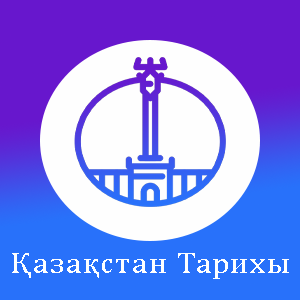
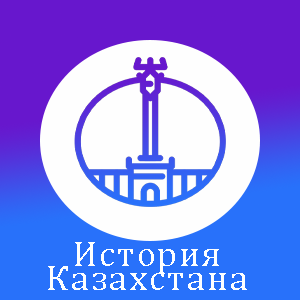
adding footer also change image of tarih to russian

Changed region(s): [[0.03, 0.81, 0.96, 0.99], [0.87, 0.84, 0.9, 0.87]]

diff --git a/Web/SnickersDevOps/src/main/resources/templates/parts/footer.html b/Web/SnickersDevOps/src/main/resources/templates/parts/footer.html
@@ -1,10 +1,27 @@
-<!DOCTYPE html>
-<html lang="en">
-<head>
-    <meta charset="UTF-8">
-    <title>Footer</title>
-</head>
-<body>
+<footer style = 'background-color: #C850C0; color: whitesmoke' class="text-center text-lg-start">
+    <!-- Grid container -->
+<!--    <div class="container p-4">-->
+<!--        &lt;!&ndash;Grid row&ndash;&gt;-->
+<!--        <div class="row">-->
+<!--            &lt;!&ndash;Grid column&ndash;&gt;-->
+<!--            <div class="col-lg-6 col-md-12 mb-4 mb-md-0">-->
+<!--                <h5 class="text-uppercase">Footer text</h5>-->
 
-</body>
-</html>
+<!--                <p>-->
+<!--                    Lorem ipsum dolor sit amet consectetur, adipisicing elit. Iste atque ea quis-->
+<!--                    molestias. Fugiat pariatur maxime quis culpa corporis vitae repudiandae-->
+<!--                    aliquam voluptatem veniam, est atque cumque eum delectus sint!-->
+<!--                </p>-->
+<!--            </div>-->
+<!--            &lt;!&ndash;Grid column&ndash;&gt;-->
+<!--        </div>-->
+<!--        &lt;!&ndash;Grid row&ndash;&gt;-->
+<!--    </div>-->
+    <!-- Grid container -->
+
+    <!-- Copyright -->
+    <div class="text-center p-3" style="background-color: #4158D0;">
+        © 2022 Copyright
+    </div>
+    <!-- Copyright -->
+</footer>

diff --git a/Web/SnickersDevOps/src/main/resources/templates/index.html b/Web/SnickersDevOps/src/main/resources/templates/index.html
@@ -4,7 +4,7 @@
     <!--  adding Bootstrap 5.1  -->
     <link href="https://cdn.jsdelivr.net/npm/bootstrap@5.1.3/dist/css/bootstrap.min.css" rel="stylesheet"
           integrity="sha384-1BmE4kWBq78iYhFldvKuhfTAU6auU8tT94WrHftjDbrCEXSU1oBoqyl2QvZ6jIW3" crossorigin="anonymous">
-    <link rel="stylesheet" href="/styles/style.css">
+    <link rel="stylesheet" href="styles/style.css">
     <meta charset="UTF-8">
     <title>UNT helper</title>
 </head>
@@ -107,7 +107,8 @@
             </div>
         </div>
     </main>
-    <script src = "/static/js/main.js"></script>
+    <div th:replace="parts/footer.html :: footer"></div>
+    <script src = "/js/main.js"></script>
 <!--  Include every Bootstrap JavaScript plugin and dependency  -->
 <script src="https://cdn.jsdelivr.net/npm/@popperjs/core@2.10.2/dist/umd/popper.min.js"
         integrity="sha384-7+zCNj/IqJ95wo16oMtfsKbZ9ccEh31eOz1HGyDuCQ6wgnyJNSYdrPa03rtR1zdB"

diff --git a/Web/SnickersDevOps/src/main/resources/templates/math_literacy.html b/Web/SnickersDevOps/src/main/resources/templates/math_literacy.html
@@ -16,7 +16,7 @@
     <div class="row my-4">
         <div class="col-2">
             <div class="card" style="width: 12rem;">
-                <a href=""><img class="card-img-top" src="/static/images/math_literacy.png" alt="Card image cap"></a>
+                <a href=""><img class="card-img-top" src="/images/math_literacy.png" alt="Card image cap"></a>
             </div>
         </div>
         <div class="col-9">
@@ -61,6 +61,7 @@
     </div>
 
 </main>
+<div th:replace="parts/footer.html :: footer"></div>
 <!--  Include every Bootstrap JavaScript plugin and dependency  -->
 <script src="https://cdn.jsdelivr.net/npm/@popperjs/core@2.10.2/dist/umd/popper.min.js"
         integrity="sha384-7+zCNj/IqJ95wo16oMtfsKbZ9ccEh31eOz1HGyDuCQ6wgnyJNSYdrPa03rtR1zdB"

diff --git a/Web/SnickersDevOps/src/main/resources/templates/qazaqstan_tarih.html b/Web/SnickersDevOps/src/main/resources/templates/qazaqstan_tarih.html
@@ -16,7 +16,7 @@
     <div class="row my-4">
         <div class="col-2">
             <div class="card" style="width: 12rem;">
-                <a href=""><img class="card-img-top" src="/static/images/qazHistory.png" alt="Card image cap"></a>
+                <a href=""><img class="card-img-top" src="/images/qazHistory.png" alt="Card image cap"></a>
             </div>
         </div>
         <div class="col-9">
@@ -61,6 +61,7 @@
     </div>
 
 </main>
+<div th:replace="parts/footer.html :: footer"></div>
 <!--  Include every Bootstrap JavaScript plugin and dependency  -->
 <script src="https://cdn.jsdelivr.net/npm/@popperjs/core@2.10.2/dist/umd/popper.min.js"
         integrity="sha384-7+zCNj/IqJ95wo16oMtfsKbZ9ccEh31eOz1HGyDuCQ6wgnyJNSYdrPa03rtR1zdB"

diff --git a/Web/SnickersDevOps/src/main/resources/templates/chemistry.html b/Web/SnickersDevOps/src/main/resources/templates/chemistry.html
@@ -16,7 +16,7 @@
     <div class="row my-4">
         <div class="col-2">
             <div class="card" style="width: 12rem;">
-                <a href=""><img class="card-img-top" src="/static/images/CHEMISTRY.png" alt="Card image cap"></a>
+                <a href=""><img class="card-img-top" src="/images/CHEMISTRY.png" alt="Card image cap"></a>
             </div>
         </div>
         <div class="col-9">
@@ -61,6 +61,7 @@
     </div>
 
 </main>
+<div th:replace="parts/footer.html :: footer"></div>
 <!--  Include every Bootstrap JavaScript plugin and dependency  -->
 <script src="https://cdn.jsdelivr.net/npm/@popperjs/core@2.10.2/dist/umd/popper.min.js"
         integrity="sha384-7+zCNj/IqJ95wo16oMtfsKbZ9ccEh31eOz1HGyDuCQ6wgnyJNSYdrPa03rtR1zdB"

diff --git a/Web/SnickersDevOps/src/main/resources/templates/biology.html b/Web/SnickersDevOps/src/main/resources/templates/biology.html
@@ -16,7 +16,7 @@
     <div class="row my-4">
         <div class="col-2">
             <div class="card" style="width: 12rem;">
-                <a href=""><img class="card-img-top" src="/static/images/biology.png" alt="Card image cap"></a>
+                <a href=""><img class="card-img-top" src="/images/biology.png" alt="Card image cap"></a>
             </div>
         </div>
         <div class="col-9">
@@ -61,6 +61,7 @@
     </div>
 
 </main>
+<div th:replace="parts/footer.html :: footer"></div>
 <!--  Include every Bootstrap JavaScript plugin and dependency  -->
 <script src="https://cdn.jsdelivr.net/npm/@popperjs/core@2.10.2/dist/umd/popper.min.js"
         integrity="sha384-7+zCNj/IqJ95wo16oMtfsKbZ9ccEh31eOz1HGyDuCQ6wgnyJNSYdrPa03rtR1zdB"

diff --git a/Web/SnickersDevOps/src/main/resources/templates/oqu_sauat.html b/Web/SnickersDevOps/src/main/resources/templates/oqu_sauat.html
@@ -16,7 +16,7 @@
     <div class="row my-4">
         <div class="col-2">
             <div class="card" style="width: 12rem;">
-                <a href=""><img class="card-img-top" src="/static/images/reading.png" alt="Card image cap"></a>
+                <a href=""><img class="card-img-top" src="/images/reading.png" alt="Card image cap"></a>
             </div>
         </div>
         <div class="col-9">
@@ -61,6 +61,7 @@
     </div>
 
 </main>
+<div th:replace="parts/footer.html :: footer"></div>
 <!--  Include every Bootstrap JavaScript plugin and dependency  -->
 <script src="https://cdn.jsdelivr.net/npm/@popperjs/core@2.10.2/dist/umd/popper.min.js"
         integrity="sha384-7+zCNj/IqJ95wo16oMtfsKbZ9ccEh31eOz1HGyDuCQ6wgnyJNSYdrPa03rtR1zdB"

diff --git a/Web/SnickersDevOps/src/main/resources/templates/physics.html b/Web/SnickersDevOps/src/main/resources/templates/physics.html
@@ -16,7 +16,7 @@
     <div class="row my-4">
         <div class="col-2">
             <div class="card" style="width: 12rem;">
-                <a href=""><img class="card-img-top" src="/static/images/physics.png" alt="Card image cap"></a>
+                <a href=""><img class="card-img-top" src="/images/physics.png" alt="Card image cap"></a>
             </div>
         </div>
         <div class="col-9">
@@ -61,6 +61,7 @@
     </div>
 
 </main>
+<div th:replace="parts/footer.html :: footer"></div>
 <!--  Include every Bootstrap JavaScript plugin and dependency  -->
 <script src="https://cdn.jsdelivr.net/npm/@popperjs/core@2.10.2/dist/umd/popper.min.js"
         integrity="sha384-7+zCNj/IqJ95wo16oMtfsKbZ9ccEh31eOz1HGyDuCQ6wgnyJNSYdrPa03rtR1zdB"

diff --git a/Web/SnickersDevOps/src/main/resources/templates/math.html b/Web/SnickersDevOps/src/main/resources/templates/math.html
@@ -16,7 +16,7 @@
     <div class="row my-4">
         <div class="col-2">
             <div class="card" style="width: 12rem;">
-                <a href=""><img class="card-img-top" src="/static/images/MATH.png" alt="Card image cap"></a>
+                <a href=""><img class="card-img-top" src="/images/MATH.png" alt="Card image cap"></a>
             </div>
         </div>
         <div class="col-9">
@@ -61,6 +61,7 @@
     </div>
 
 </main>
+<div th:replace="parts/footer.html :: footer"></div>
 <!--  Include every Bootstrap JavaScript plugin and dependency  -->
 <script src="https://cdn.jsdelivr.net/npm/@popperjs/core@2.10.2/dist/umd/popper.min.js"
         integrity="sha384-7+zCNj/IqJ95wo16oMtfsKbZ9ccEh31eOz1HGyDuCQ6wgnyJNSYdrPa03rtR1zdB"

diff --git a/Web/SnickersDevOps/src/main/resources/templates/geography.html b/Web/SnickersDevOps/src/main/resources/templates/geography.html
@@ -16,7 +16,7 @@
     <div class="row my-4">
         <div class="col-2">
             <div class="card" style="width: 12rem;">
-                <a href=""><img class="card-img-top" src="/static/images/GEO.png" alt="Card image cap"></a>
+                <a href=""><img class="card-img-top" src="/images/GEO.png" alt="Card image cap"></a>
             </div>
         </div>
         <div class="col-9">
@@ -61,6 +61,7 @@
     </div>
 
 </main>
+<div th:replace="parts/footer.html :: footer"></div>
 <!--  Include every Bootstrap JavaScript plugin and dependency  -->
 <script src="https://cdn.jsdelivr.net/npm/@popperjs/core@2.10.2/dist/umd/popper.min.js"
         integrity="sha384-7+zCNj/IqJ95wo16oMtfsKbZ9ccEh31eOz1HGyDuCQ6wgnyJNSYdrPa03rtR1zdB"

diff --git a/Web/SnickersDevOps/src/main/resources/templates/profile.html b/Web/SnickersDevOps/src/main/resources/templates/profile.html
@@ -51,7 +51,7 @@
     <div class="statsBlock container">
         <h3>Here would be some stats</h3>
     </div>
-
+    <div th:replace="parts/footer.html :: footer"></div>
 
 <!--  Include every Bootstrap JavaScript plugin and dependency  -->
 <script src="https://cdn.jsdelivr.net/npm/@popperjs/core@2.10.2/dist/umd/popper.min.js" integrity="sha384-7+zCNj/IqJ95wo16oMtfsKbZ9ccEh31eOz1HGyDuCQ6wgnyJNSYdrPa03rtR1zdB" crossorigin="anonymous"></script>
